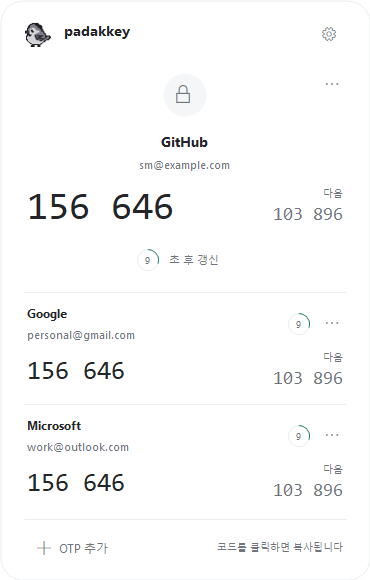
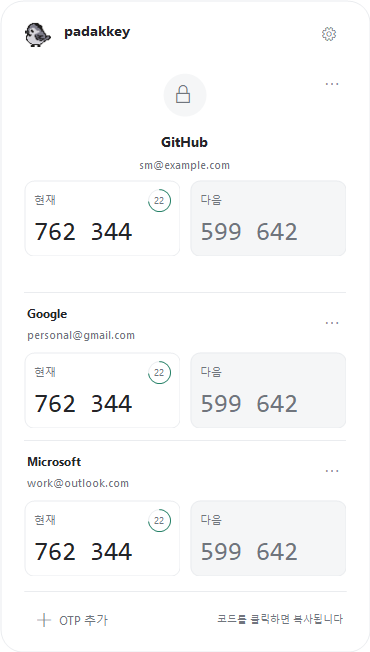
Refresh Windows preview for OTP card release

diff --git a/Windows/README.md b/Windows/README.md
@@ -20,7 +20,7 @@ Windows 11 x64용 트레이 앱입니다. Windows 10은 현재 실제 기기 검
 
 두 숫자에 마우스를 올리면 같은 강조 효과가 표시됩니다. 별도 복사 버튼 없이 하단에 ‘코드를 클릭하면 복사됩니다’ 안내를 표시하며, 어느 쪽이든 복사 성공 직후 상태창이 닫힙니다. 바깥 클릭이나 Esc로도 닫습니다. 복사 30초 후 클립보드 내용이 다른 앱에 의해 바뀌지 않았을 때만 지웁니다.
 
-<img src="../docs/images/windows-focus.png" alt="PadakKey 0.1.19 Windows Focus 상태창의 테스트 계정 화면" width="370">
+<img src="../docs/images/windows-focus.png" alt="PadakKey 0.1.23 Windows Focus 상태창의 테스트 계정 화면" width="370">
 
 테스트 계정으로 만든 화면입니다. 실제 계정이나 인증 키는 포함하지 않습니다.
 
